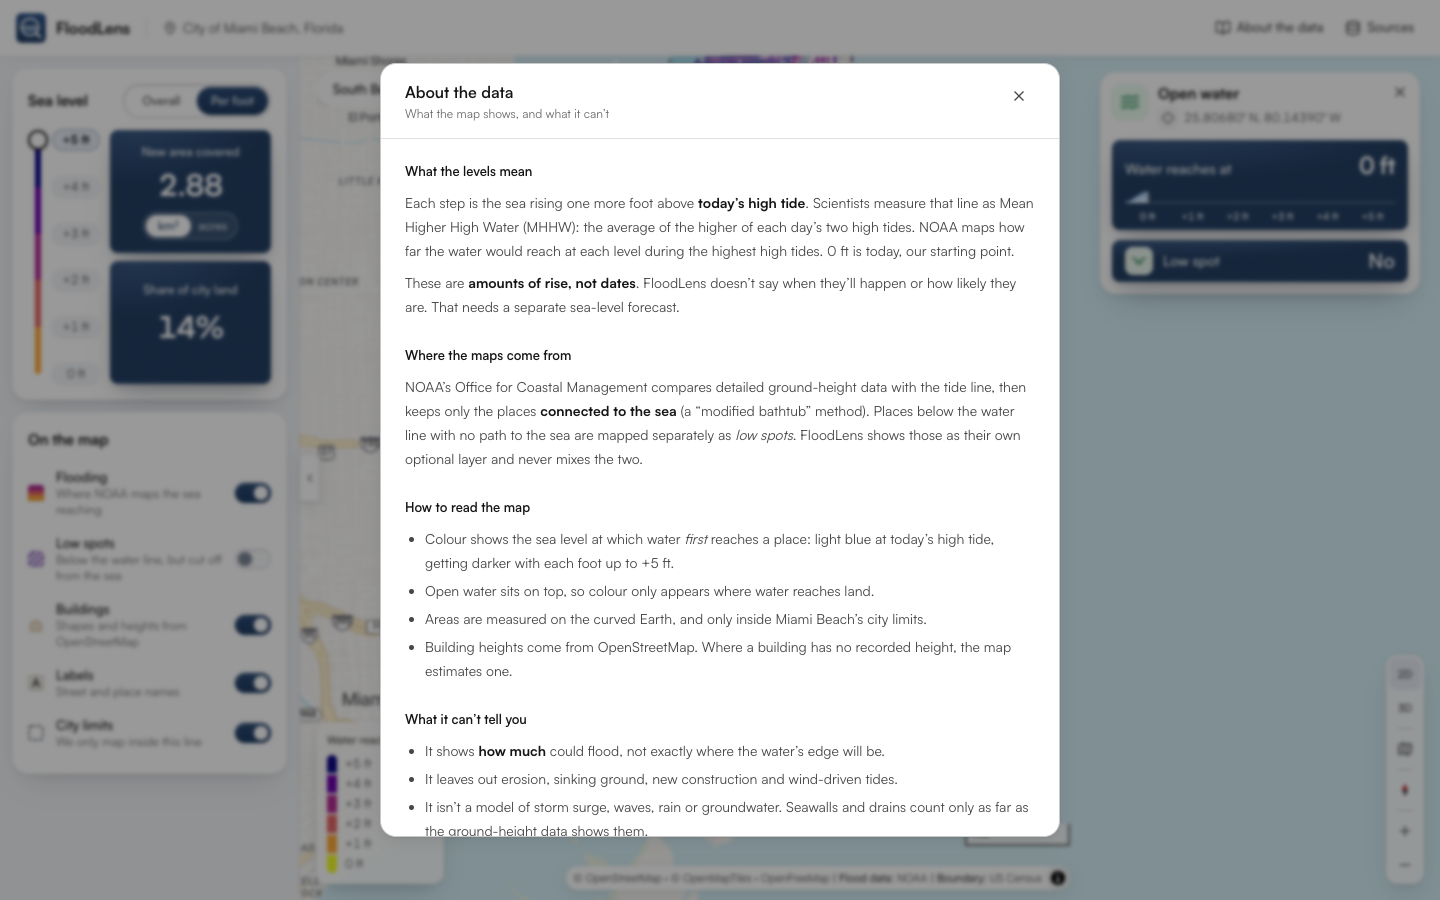
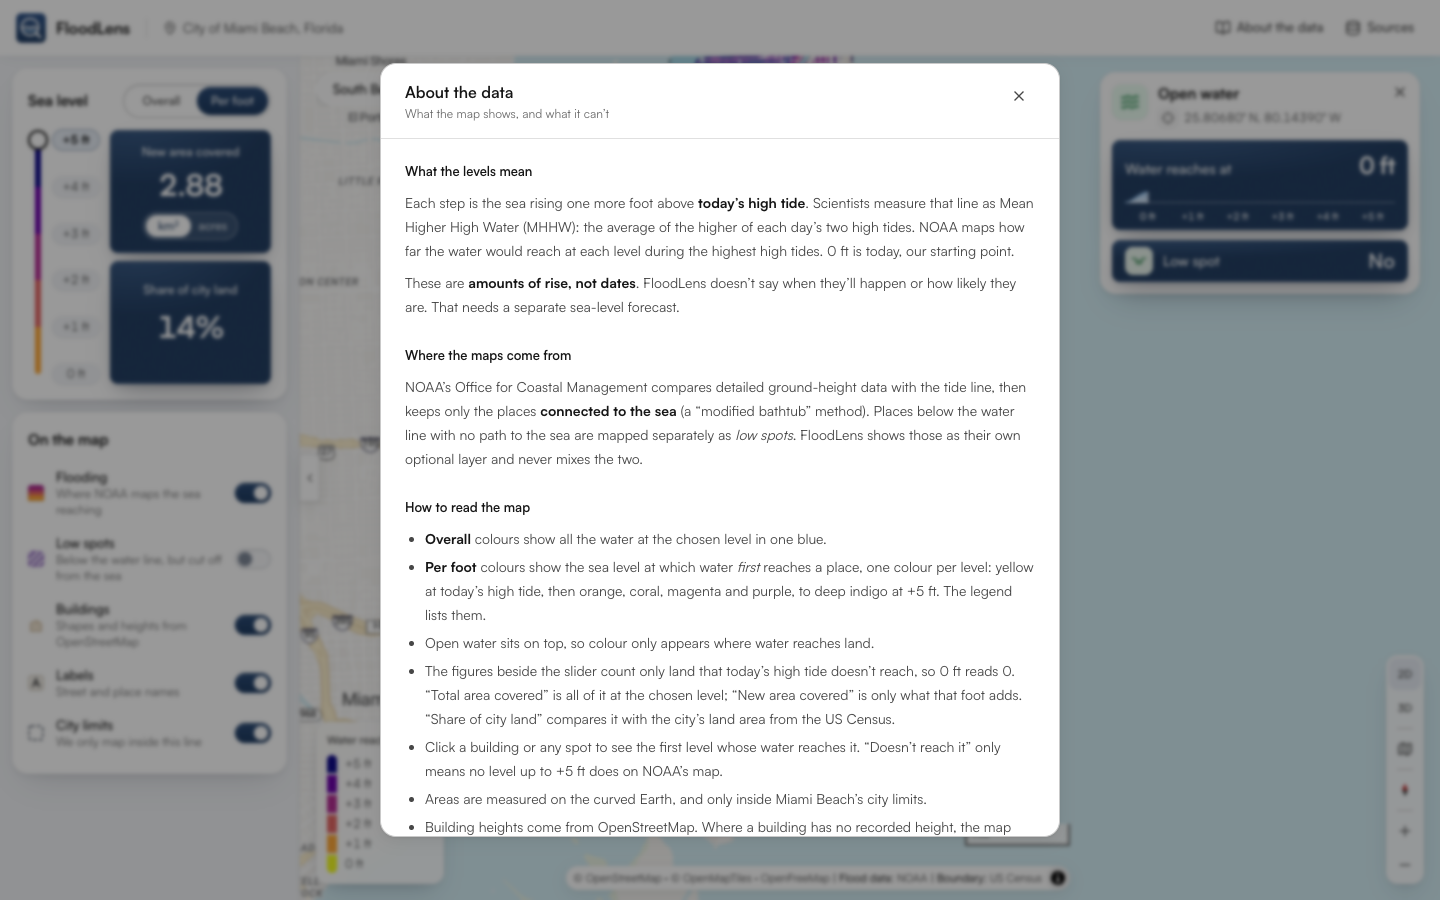
v0.55: "About the data" and "Sources" brought up to date
Checked every statement in both dialogs against the code and the
manifest. About the data described one blue ramp (wrong since v0.34);
it now describes Overall and Per foot colours, explains the sea-level
figures (land beyond today's high tide; total, per foot, share of
Census land) and the place card. Sources gains a "Sea-level figures"
section, notes how the bands are coloured in each mode, and credits
D3 for the card's water track, not charts (removed in v0.36). README
and LIMITATIONS updated where they had fallen behind.

Tests: 115 unit/component (new Dialogs.test.tsx), 20 end-to-end.

Changed region(s): [[0.2812, 0.5911, 0.7188, 0.9333]]

diff --git a/src/components/dialogs/DataSourcesDialog.tsx b/src/components/dialogs/DataSourcesDialog.tsx
@@ -82,8 +82,10 @@ export function DataSourcesDialog({ open, onClose, manifest, manifestError }: Pr
           <p className="text-xs">
             Each &ldquo;added extent&rdquo; layer is a polygon difference (higher − lower). The pipeline checks that the lower extent lies
             inside the higher one and that the difference area equals the change in total area. The map&rsquo;s colour bands are the
-            differences between neighbouring levels (0→1, 1→2, … 4→5 ft).
+            differences between neighbouring levels (0→1, 1→2, … 4→5 ft): each has its own colour with Per foot colours, and they
+            share one blue with Overall colours.
           </p>
+
           <div className="mt-2 overflow-x-auto">
             <table className="w-full text-left text-xs tabular">
               <thead className="text-fg-subtle">
@@ -116,6 +118,13 @@ export function DataSourcesDialog({ open, onClose, manifest, manifestError }: Pr
               </tbody>
             </table>
           </div>
+
+          <H>Sea-level figures</H>
+          <p className="text-xs">
+            &ldquo;Total area covered&rdquo; is a level&rsquo;s extent minus today&rsquo;s high-tide extent (0 ft), measured on the curved
+            Earth inside the city limits. &ldquo;New area covered&rdquo; is the difference between neighbouring totals, so the levels add
+            up to the total. &ldquo;Share of city land&rdquo; divides by the Census land area above.
+          </p>
 
           <H>Processed files</H>
           <div className="overflow-x-auto">
@@ -164,7 +173,7 @@ export function DataSourcesDialog({ open, onClose, manifest, manifestError }: Pr
       <H>Attribution</H>
       <p className="text-xs">
         Data: NOAA Office for Coastal Management, Sea Level Rise Viewer (coast.noaa.gov/slr). City boundary: US Census Bureau TIGER/Line.
-        Map: OpenFreeMap © OpenMapTiles, data from OpenStreetMap. Rendering: MapLibre GL JS. Charts: D3.js.
+        Map: OpenFreeMap © OpenMapTiles, data from OpenStreetMap. Rendering: MapLibre GL JS, and D3.js for the place card&rsquo;s water track.
       </p>
     </Dialog>
   )

diff --git a/src/components/dialogs/Dialogs.test.tsx b/src/components/dialogs/Dialogs.test.tsx
@@ -1,0 +1,33 @@
+import { render, screen } from '@testing-library/react'
+import { describe, expect, it } from 'vitest'
+import { makeManifest } from '../../test/fixtures'
+import { AboutDataDialog } from './AboutDataDialog'
+import { DataSourcesDialog } from './DataSourcesDialog'
+
+const manifest = makeManifest()
+
+describe('About the data and Sources (v0.55)', () => {
+  it('describes both colour modes, the figures and the place card as they are now', () => {
+    render(<AboutDataDialog open onClose={() => {}} manifest={manifest} />)
+    const text = document.body.textContent!
+    // Two colour modes since v0.34; the old one-blue ramp description is gone.
+    expect(text).toMatch(/Overall colours show all the water at the chosen level in one blue/)
+    expect(text).toMatch(/yellow at today’s high tide, then orange, coral, magenta and purple, to deep indigo at \+5 ft/)
+    expect(text).not.toMatch(/light blue|getting darker/)
+    // The figures count only land beyond today's high tide (v0.36), so 0 ft reads 0.
+    expect(text).toMatch(/count only land that today’s high tide doesn’t reach, so 0 ft reads 0/)
+    // The card's answers, worded as on the card, never "safe" or "dry".
+    expect(text).toMatch(/“Doesn’t reach it” only means no level up to \+5 ft does on NOAA’s map/)
+    expect(text).not.toMatch(/\bsafe\b|\bdry\b/i)
+  })
+
+  it('explains how the sea-level figures are computed, and credits D3 for what it draws now', () => {
+    render(<DataSourcesDialog open onClose={() => {}} manifest={manifest} manifestError={null} />)
+    expect(screen.getByRole('heading', { name: 'Sea-level figures' })).toBeInTheDocument()
+    const text = document.body.textContent!
+    expect(text).toMatch(/a level’s extent minus today’s high-tide extent \(0 ft\)/)
+    // The chart went in v0.36; D3 now draws only the place card's water track.
+    expect(text).not.toMatch(/Charts: D3/)
+    expect(text).toMatch(/D3\.js for the place card’s water track/)
+  })
+})

diff --git a/src/components/dialogs/AboutDataDialog.tsx b/src/components/dialogs/AboutDataDialog.tsx
@@ -36,10 +36,23 @@ export function AboutDataDialog({ open, onClose, manifest }: Props) {
       <H>How to read the map</H>
       <ul className="list-disc space-y-1 pl-5">
         <li>
-          Colour shows the sea level at which water <em>first</em> reaches a place: light blue at today’s high tide, getting darker with
-          each foot up to +5 ft.
+          <strong className="text-fg">Overall</strong> colours show all the water at the chosen level in one blue.
+        </li>
+        <li>
+          <strong className="text-fg">Per foot</strong> colours show the sea level at which water <em>first</em> reaches a place, one
+          colour per level: yellow at today’s high tide, then orange, coral, magenta and purple, to deep indigo at +5 ft. The legend
+          lists them.
         </li>
         <li>Open water sits on top, so colour only appears where water reaches land.</li>
+        <li>
+          The figures beside the slider count only land that today’s high tide doesn’t reach, so 0 ft reads 0. “Total area covered” is
+          all of it at the chosen level; “New area covered” is only what that foot adds. “Share of city land” compares it with the
+          city’s land area from the US Census.
+        </li>
+        <li>
+          Click a building or any spot to see the first level whose water reaches it. “Doesn’t reach it” only means no level up to
+          +5 ft does on NOAA’s map.
+        </li>
         <li>Areas are measured on the curved Earth, and only inside Miami Beach’s city limits.</li>
         <li>Building heights come from OpenStreetMap. Where a building has no recorded height, the map estimates one.</li>
       </ul>

diff --git a/README.md b/README.md
@@ -22,12 +22,12 @@ Version history with screenshots of each iteration: [CHANGELOG.md](CHANGELOG.md)
 
 - **Real NOAA data.** Ocean-connected inundation polygons from the NOAA Office for Coastal Management Sea Level Rise Viewer data (FL_SE GeoPackage) for 0 ft (current MHHW) and every foot up to +5 ft, clipped to the City of Miami Beach boundary (US Census Bureau TIGER/Line; 39.4 km² including Biscayne Bay waters inside city limits). Nothing is simulated.
 - **3D map (MapLibre GL JS).** A light, ArcGIS-style geographic basemap (OpenFreeMap Positron, restyled) with Roboto labels; the interface is set in Satoshi. Buildings are extruded from OpenStreetMap heights, and the overlay draws beneath basemap water so mapped inundation reads as "water reaching land".
-- **Sea-level control.** An upright, keyboard-operable slider (native range input), today at the bottom and +5 ft at the top, whose track is painted with the map's colours, and every level a chip you can click. Beside it, two figures of equal weight in soft tinted boxes: the area covered at that level, with a km² / acres switch under it (remembered in the browser), and its share of the city's Census land area. With Overall colours that's everything covered ("Total area covered"); with Per foot colours only what that level adds ("New area covered"). Today's high tide reads 0. Levels swap in place, so the camera and app state are preserved.
-- **Two colour modes**, beside the Sea level title. **Overall** (the default) draws all the water at the chosen level in one blue. **Per foot** colours each area by the level at which NOAA's mapped extent first reaches it, from yellow (today's high tide, "0 ft") through orange, coral, magenta and purple to indigo (+5 ft), the Plasma palette, each level edged with a faint white line, so one map shows how flooding spreads. The bands come from validated polygon differences computed offline. With Per foot colours a slim vertical colour scale of the sea levels keys the map; it's a plain key.
+- **Sea-level control.** An upright, keyboard-operable slider (native range input), today at the bottom and +5 ft at the top, whose track is painted with the map's colours, and every level a chip you can click. Beside it, two figures of equal weight in navy boxes: the area covered at that level, with a km² / acres switch under it (remembered in the browser), and its share of the city's Census land area. With Overall colours that's everything covered ("Total area covered"); with Per foot colours only what that level adds ("New area covered"). Today's high tide reads 0. Levels swap in place, so the camera and app state are preserved.
+- **Two colour modes**, beside the Sea level title. **Overall** (the default) draws all the water at the chosen level in one blue. **Per foot** colours each area by the level at which NOAA's mapped extent first reaches it, from yellow (today's high tide, "0 ft") through orange, coral, magenta and purple to indigo (+5 ft), the Plasma palette, each level edged with a faint white line, so one map shows how flooding spreads. The bands come from validated polygon differences computed offline. With Per foot colours a slim vertical colour scale of the sea levels, titled "Water reaches at", keys the map; it's a plain key that can be minimised to a small square (remembered in the browser).
 - **In-map controls.** One toolbar at the screen's right edge, under the Insights card: 2D/3D, **Entire Miami Beach** (fits the whole city back into view), then in 3D buttons to turn and tilt the view (for trackpads and mice that can't; on short windows they fold into one button), the compass and zoom. Every button names itself in a tooltip. Tilting the map by hand keeps 2D/3D in sync.
 - **Area chips.** South Beach, Mid-Beach and North Beach chips (top-left) fly the camera along the 12.6 km city, keeping the current 2D/3D mode. The chip you pick fills with the accent straight away, and clicking it again shows the whole city; when you pan by hand, the nearest area's chip takes over. The named areas are camera positions only; no statistics are invented for these unofficial areas.
-- **Insights.** Only what you pick on the map: the selected building or spot (below), or a short prompt when nothing is picked. While the Low spots layer is on, their area at the chosen level shows under its switch.
-- **Building and location inspection.** Click any building (3D-accurate picking) or place, or focus the map and press Enter. A card leads with the first water level that reaches it, in large type, over a track of every level (water rises and stops, with a dashed marker, at the first level that reaches it). Then, for a building, OSM height, footprint (always in m²) and whether it sits in a low spot, and from which level, in one column; a spot or open water lists only the low spot. When none of the mapped levels reach it, the card says "Up to +5 ft · Doesn't reach it". Esc clears it.
+- **Insights.** Only what you pick on the map: the selected building or spot (below), or, until a visitor's first pick, a short prompt when nothing is picked. While the Low spots layer is on, their area at the chosen level shows under its switch.
+- **Building and location inspection.** Click any building (3D-accurate picking) or place, or focus the map and press Enter. A card leads with the first water level that reaches it, in large type, over a track of every level (the water flows in once and stops, with a dashed marker, at the first level that reaches it). Then, for a building, OSM height, footprint (always in m²) and whether it sits in a low spot, and from which level, in one column; a spot or open water lists only the low spot. When none of the mapped levels reach it, the card says "Up to +5 ft · Doesn't reach it". Esc clears it.
 - **Optional low-lying areas.** Hydrologically unconnected low areas are processed as a separate purple-hatched layer and are never merged with ocean-connected extents.
 - **City limits layer.** The dashed city boundary and the dimmed area outside it can be turned off for a clean map.
 - **Honest states.** Loading, missing-file and missing-manifest states are explicit. If data are unavailable, FloodLens shows nothing rather than an estimate.

diff --git a/CHANGELOG.md b/CHANGELOG.md
@@ -58,8 +58,22 @@ Every version is tagged in git (`git checkout v0.3`) and has a screenshot set in
 | v0.52 | 4 Nov 2026 | Centred share figure, slower water | [`docs/versions/v0.52/`](docs/versions/v0.52/) |
 | v0.53 | 4 Nov 2026 | Prompt only until the first click; share 4 px lower | [`docs/versions/v0.53/`](docs/versions/v0.53/) |
 | v0.54 | 4 Nov 2026 | A legend you can minimise, titled "Water reaches at" | [`docs/versions/v0.54/`](docs/versions/v0.54/) |
+| v0.55 | 4 Nov 2026 | "About the data" and "Sources" brought up to date | [`docs/versions/v0.55/`](docs/versions/v0.55/) |
 
 ---
+
+## v0.55: "About the data" and "Sources" brought up to date (4 Nov 2026)
+
+The owner asked for a final check of the two dialogs against the app as it is now. Every statement was checked against the code and `manifest.json`. Two were wrong and two features were missing (before/after in `docs/UX_WRITING.md`).
+
+- **About the data, colours (wrong since v0.34).** It still described one blue ramp, "light blue at today's high tide, getting darker". It now describes both modes: Overall (one blue) and Per foot (yellow through orange, coral, magenta and purple to deep indigo, keyed by the legend).
+- **About the data, figures (missing since v0.36).** It now explains the figures beside the slider: they count only land that today's high tide doesn't reach (so 0 ft reads 0). "Total area covered" is all of it at the level, "New area covered" is what that foot adds, and "Share of city land" uses the Census land area.
+- **About the data, place card (missing).** It now says you can click a building or spot to see the first level whose water reaches it, and what "Doesn't reach it" means. Since v0.53 the on-screen prompt goes after the first click, so this is now the only place that explains it.
+- **Sources, figures (missing).** A new "Sea-level figures" section says how they are computed: each level's extent minus the 0 ft extent, measured on the curved Earth inside the city limits; per-foot figures as differences of neighbouring totals; the share over the Census land area.
+- **Sources, colour bands.** It now says the bands each have their own colour with Per foot and share one blue with Overall.
+- **Sources, attribution (wrong since v0.36).** "Charts: D3.js" is now "D3.js for the place card's water track": the chart was removed, and D3 only draws that track now.
+- Also brought up to date: the README feature list (navy figure boxes, the minimisable legend, the prompt only until the first click, the water that flows in) and `docs/LIMITATIONS.md` (no chart table any more).
+- Tests: 115 unit/component tests in 14 files (new: `Dialogs.test.tsx`, which checks both dialogs' wording) and 20 end-to-end tests.
 
 ## v0.54: A legend you can minimise, titled "Water reaches at" (4 Nov 2026)
 

diff --git a/AGENTS.md b/AGENTS.md
@@ -11,9 +11,9 @@ FloodLens is a portfolio web app by a product designer. It shows real NOAA sea-l
 - **Live site:** https://floodlens-five.vercel.app
   - Note: floodlens.vercel.app is a different project that belongs to someone else.
 - **Repo:** https://github.com/srinivasmidhunsiddamsetty-hub/floodlens (public). The remote is `origin` and the branch is `main`.
-- **Current version:** v0.54 (tag `v0.54`): a legend you can minimise, with no highlighted level, titled "Water reaches at".
+- **Current version:** v0.55 (tag `v0.55`): "About the data" and "Sources" brought up to date with the app (colour modes, figures, place card, D3's use).
 - **Test status at handoff:**
-  - 113 unit and component tests in 13 files pass.
+  - 115 unit and component tests in 14 files pass.
   - 20 end-to-end tests pass, at 1440×900 (some also check shorter windows, 650–800 px).
   - There is also 1 screenshot spec. It runs only with `SCREENSHOTS=1`.
 
@@ -180,7 +180,7 @@ tests/e2e/                    Playwright: app.spec, screenshots.spec
 npm install
 npm run dev              # Vite dev server (the owner uses http://localhost:5173)
 npm run typecheck
-npm test                 # Vitest: 113 tests
+npm test                 # Vitest: 115 tests
 npm run test:e2e         # Playwright on the production build, port 4179, system Google Chrome
 npm run screenshots      # regenerates docs/screenshots/ 01–04 and 08–10 (02 Per foot colours at +5 ft, 10 today's zeros) (SCREENSHOT_DIR overrides the folder)
 npm run build            # tsc -b && vite build → dist/
@@ -267,6 +267,7 @@ Each change the owner accepts becomes the next version, v0.33 and so on.
 | v0.52 | The share's number centred in its box (label resting on it); the water flow-in slowed to 1.8 s |
 | v0.53 | "Click any building" prompt only until the first click; the share 4 px below the middle; label kept off the box edge on the shortest windows |
 | v0.54 | Legend: minus folds it to a square of its colours (remembered), no highlighted level, title "Water reaches at"; stays bottom left |
+| v0.55 | "About the data" and "Sources" checked against the app: both colour modes, the sea-level figures and how they're computed, the place card, D3 credited for the water track (the chart is gone) |
 
 ---
 

diff --git a/docs/UX_WRITING.md b/docs/UX_WRITING.md
@@ -288,3 +288,17 @@ The owner asked whether the legend needs a title. It does: without one, "+3 ft" 
 | Legend title | Water first reaches | Water reaches at (the same words as the place card's answer) |
 | Legend, chosen level | +3 ft in bold, "(chosen level)" for screen readers | No highlight (the slider shows the chosen level) |
 | Legend buttons | (none) | Minimise legend · Show legend |
+
+## Before and after (v0.54 → v0.55)
+
+The owner asked for a final check of "About the data" and "Sources" against the app as it is now.
+
+| Where | Before | After |
+| --- | --- | --- |
+| About, colours | Colour shows the sea level at which water first reaches a place: light blue at today's high tide, getting darker with each foot up to +5 ft. | Overall colours show all the water at the chosen level in one blue. · Per foot colours show the sea level at which water first reaches a place, one colour per level: yellow at today's high tide, then orange, coral, magenta and purple, to deep indigo at +5 ft. The legend lists them. |
+| About, figures | (none) | The figures beside the slider count only land that today's high tide doesn't reach, so 0 ft reads 0. "Total area covered" is all of it at the chosen level; "New area covered" is only what that foot adds. "Share of city land" compares it with the city's land area from the US Census. |
+| About, place card | (none) | Click a building or any spot to see the first level whose water reaches it. "Doesn't reach it" only means no level up to +5 ft does on NOAA's map. |
+| Sources, colour bands | The map's colour bands are the differences between neighbouring levels (0→1, 1→2, … 4→5 ft). | … : each has its own colour with Per foot colours, and they share one blue with Overall colours. |
+| Sources, figures | (none) | Sea-level figures: "Total area covered" is a level's extent minus today's high-tide extent (0 ft), measured on the curved Earth inside the city limits. "New area covered" is the difference between neighbouring totals, so the levels add up to the total. "Share of city land" divides by the Census land area above. |
+| Sources, attribution | Rendering: MapLibre GL JS. Charts: D3.js. | Rendering: MapLibre GL JS, and D3.js for the place card's water track. |
+

diff --git a/docs/QUALITY_REPORT.md b/docs/QUALITY_REPORT.md
@@ -68,6 +68,7 @@ Status as of 27 Oct 2026 (v0.3). Every "passed" below was actually executed in t
 - Share figure centred in its box; the water flows in over 1.8 s (v0.52).
 - The "Click any building" prompt only until the first click; the share 4 px below the middle (v0.53).
 - A legend that minimises to a square of its colours (remembered), with no highlighted level and the title "Water reaches at" (v0.54).
+- "About the data" and "Sources" brought up to date: both colour modes, how the sea-level figures are computed, the place card, and D3's current use (v0.55).
 - The "See it at +N ft" link removed; the answer box shortened from 277 × 140 to 277 × 104 px, with the answer on the label's row and text sizes unchanged (v0.15).
 - The answer box shortened again, to 277 × 92 px (v0.16).
 - Legend, About the data dialog, Data sources dialog (provenance, steps, validation table, file list).
@@ -83,7 +84,7 @@ Status as of 27 Oct 2026 (v0.3). Every "passed" below was actually executed in t
 | Check | Command | Result |
 | --- | --- | --- |
 | TypeScript | `npm run typecheck` | No errors |
-| Unit and component tests | `npm test` | **13 files, 113 tests passed** |
+| Unit and component tests | `npm test` | **14 files, 115 tests passed** |
 | End-to-end (production build, Chrome) | `npm run test:e2e` | **20 passed** (at 1440×900, some also at 650–800 px tall); 1 screenshot spec skipped by default |
 | Screenshot capture | `npm run screenshots` | 1 passed; images in `docs/screenshots/` |
 | Production build | `npm run build` | Succeeds; JS ≈ 415 KB gzip (MapLibre 285 KB); data 26 MB raw across 19 files, lazy-loaded per state (the opening +2 ft view needs 2.4 MB raw, ≈ 0.26 MB gzip; the +3, +4 and +5 ft bands add 4.3, 6.1 and 4.8 MB raw and load only when the slider reaches them) |

diff --git a/docs/LIMITATIONS.md b/docs/LIMITATIONS.md
@@ -27,4 +27,4 @@ FloodLens is an **exploratory screening tool**. It visualizes NOAA's mapped inun
 
 ## Accessibility limits
 
-The WebGL map canvas is not exposed to screen readers. All quantitative results (indicators, chart table, inspection card) are available as text.
+The WebGL map canvas is not exposed to screen readers. All quantitative results (the sea-level figures and the inspection card) are available as text.
